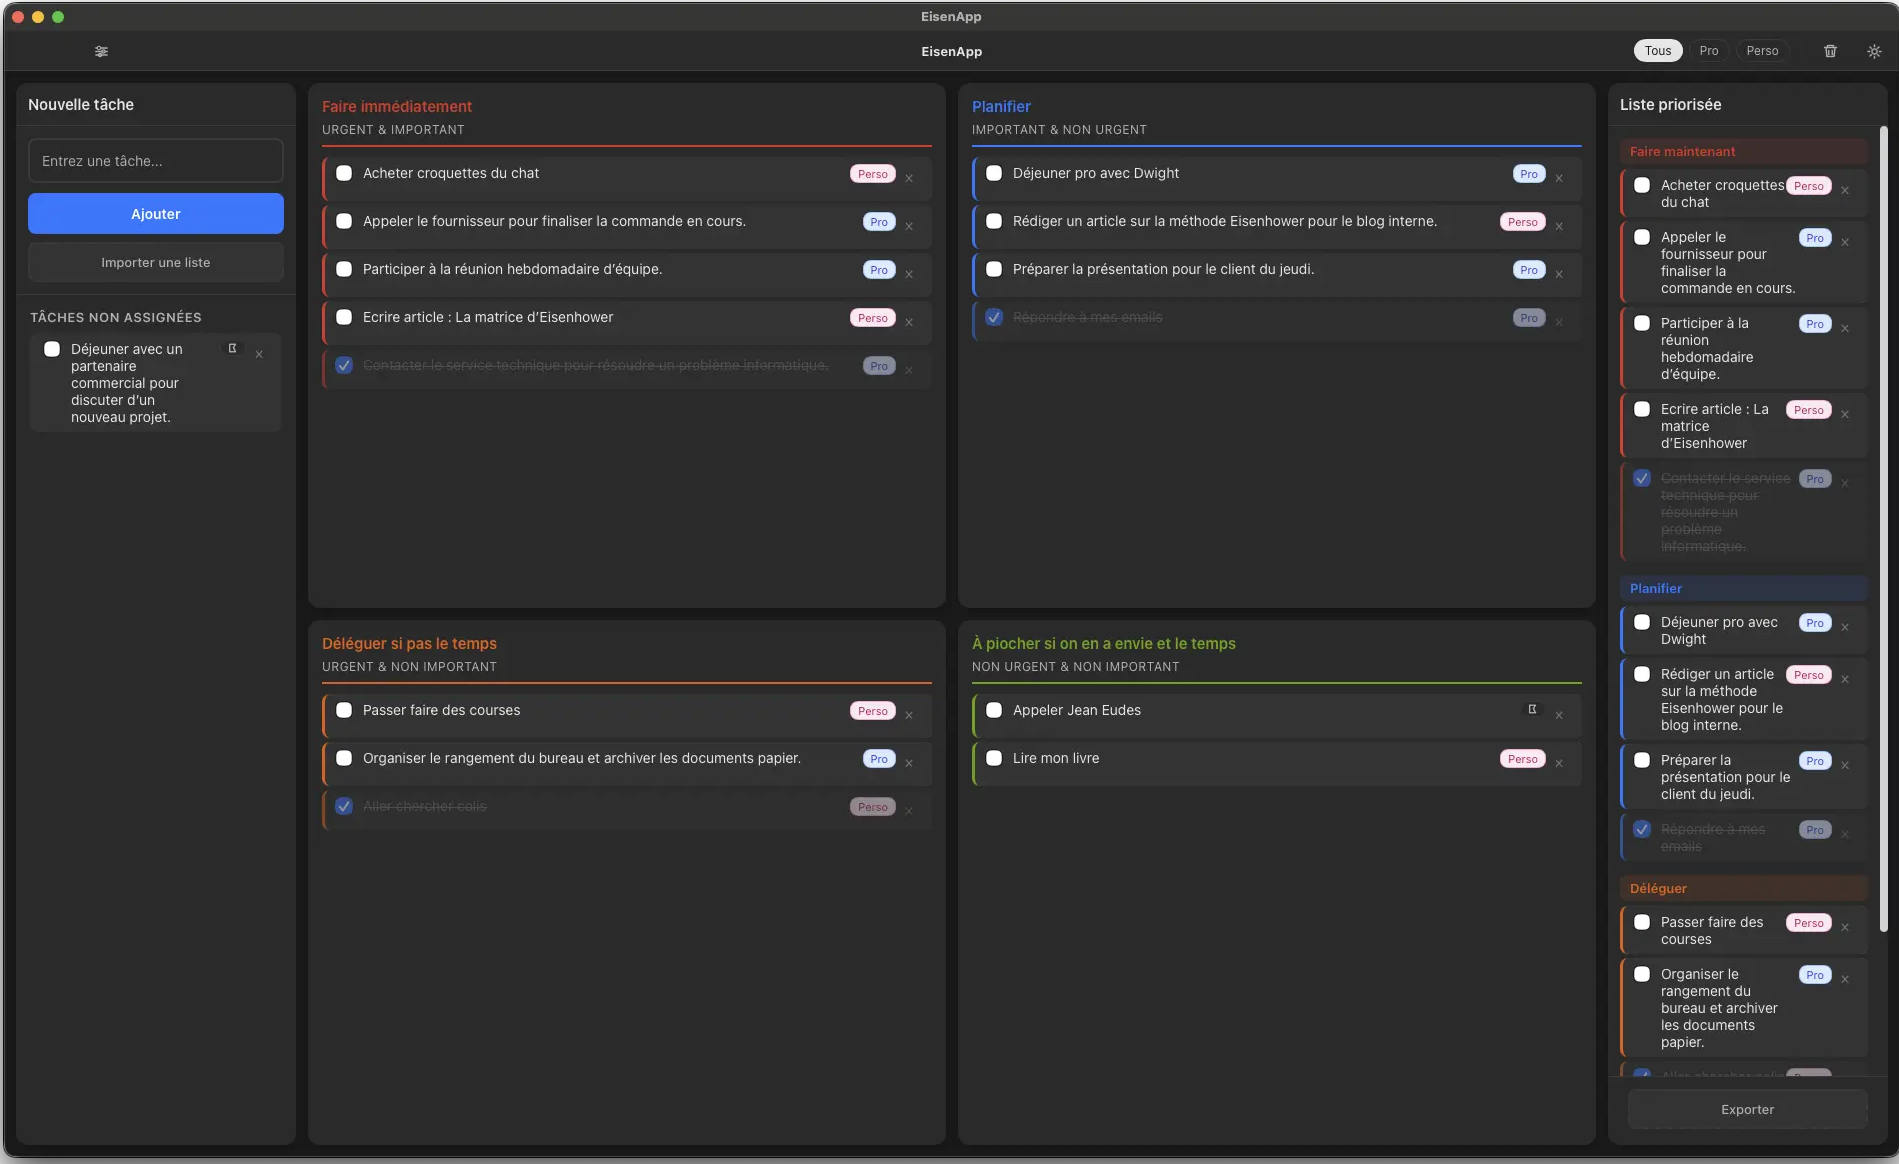
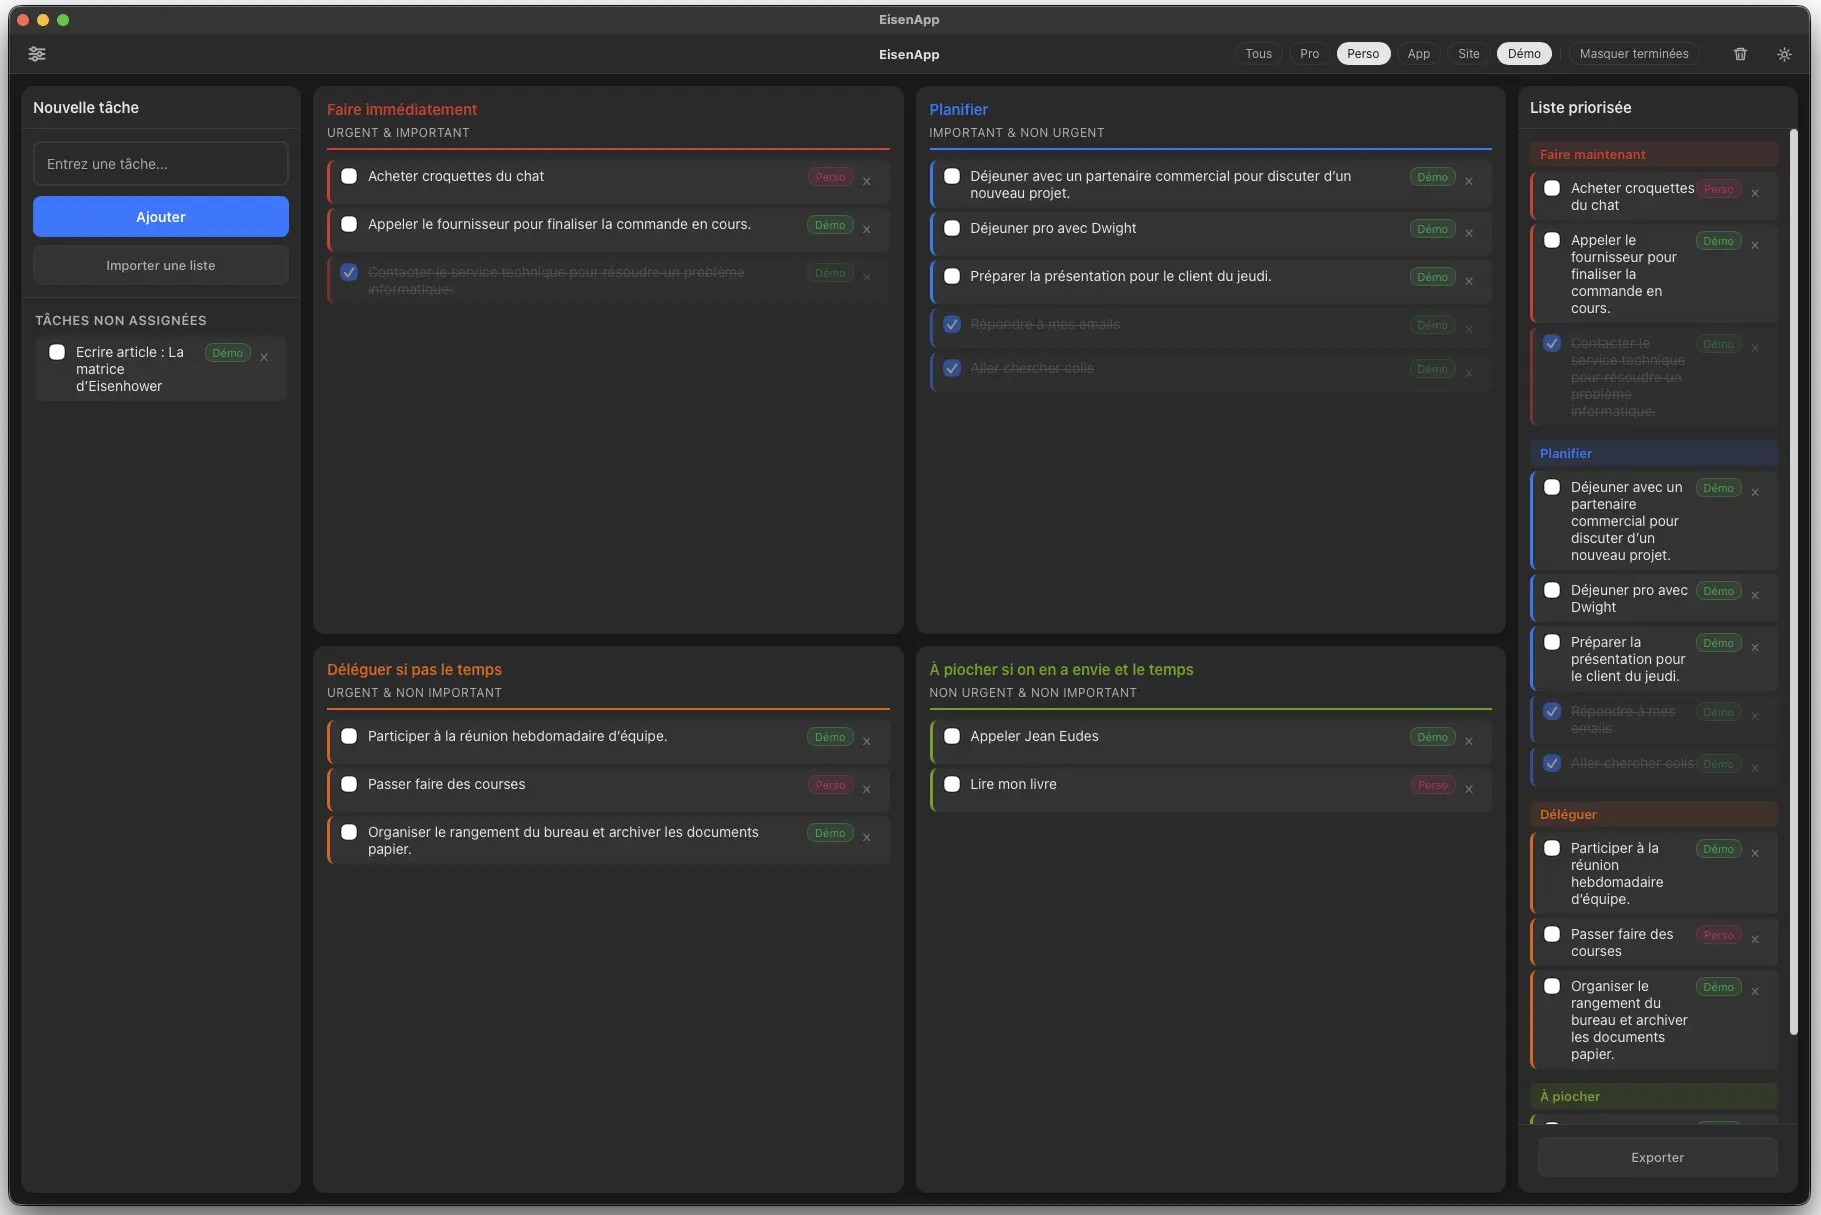
feat: carousel plutôt que gif

Changed region(s): [[0.0, 0.0, 1.0, 1.0], [0.4305, 0.3093, 0.492, 0.3402], [0.8918, 0.9278, 0.9226, 0.9588]]

diff --git a/src/index.html b/src/index.html
@@ -95,10 +95,33 @@
     </div>
   </section>
   
-  <!-- Demo GIF -->
+  <!-- Demo Carousel -->
   <section class="demo">
     <div class="container">
-      <img src="presentation.gif" alt="EisenApp demo" class="demo-gif" />
+      <div class="carousel">
+        <div class="carousel-track">
+          <div class="carousel-slide active">
+            <img src="illustration_light.webp" alt="EisenApp demo" />
+          </div>
+          <div class="carousel-slide">
+            <img src="illustration_light_2.webp" alt="EisenApp demo" />
+          </div>
+          <div class="carousel-slide">
+            <img src="illustration_light_3.webp" alt="EisenApp demo" />
+          </div>
+          <div class="carousel-slide">
+            <img src="illustration_light_4.webp" alt="EisenApp demo" />
+          </div>
+        </div>
+        <button class="carousel-btn carousel-prev" aria-label="Previous">&#8249;</button>
+        <button class="carousel-btn carousel-next" aria-label="Next">&#8250;</button>
+        <div class="carousel-dots">
+          <button class="carousel-dot active" aria-label="Slide 1"></button>
+          <button class="carousel-dot" aria-label="Slide 2"></button>
+          <button class="carousel-dot" aria-label="Slide 3"></button>
+          <button class="carousel-dot" aria-label="Slide 4"></button>
+        </div>
+      </div>
     </div>
   </section>
   
@@ -188,5 +211,38 @@
   </div>
 
   <script src="i18n.js"></script>
+  <script>
+    (function () {
+      const slides = document.querySelectorAll('.carousel-slide');
+      const dots = document.querySelectorAll('.carousel-dot');
+      let current = 0;
+      let timer;
+
+      function goTo(n) {
+        slides[current].classList.remove('active');
+        dots[current].classList.remove('active');
+        current = (n + slides.length) % slides.length;
+        slides[current].classList.add('active');
+        dots[current].classList.add('active');
+      }
+
+      function startAuto() {
+        timer = setInterval(function () { goTo(current + 1); }, 4000);
+      }
+
+      function resetAuto() {
+        clearInterval(timer);
+        startAuto();
+      }
+
+      document.querySelector('.carousel-next').addEventListener('click', function () { goTo(current + 1); resetAuto(); });
+      document.querySelector('.carousel-prev').addEventListener('click', function () { goTo(current - 1); resetAuto(); });
+      dots.forEach(function (dot, i) {
+        dot.addEventListener('click', function () { goTo(i); resetAuto(); });
+      });
+
+      startAuto();
+    })();
+  </script>
 </body>
 </html>

diff --git a/src/styles.css b/src/styles.css
@@ -180,17 +180,92 @@ nav {
   box-shadow: 0 4px 6px rgba(0,0,0,0.05), 0 12px 40px rgba(0,0,0,0.12), 0 0 0 1px rgba(0,0,0,0.06);
 }
 
-/* ── Demo GIF ── */
+/* ── Demo Carousel ── */
 .demo {
   padding: 64px 0;
-  text-align: center;
 }
 
-.demo-gif {
-  width: 100%;
-  max-width: 860px;
+.carousel {
+  position: relative;
+  max-width: 1200px;
+  margin: 0 auto;
+}
+
+.carousel-track {
   border-radius: 14px;
   box-shadow: 0 4px 6px rgba(0,0,0,0.05), 0 12px 40px rgba(0,0,0,0.12), 0 0 0 1px rgba(0,0,0,0.06);
+  overflow: hidden;
+}
+
+.carousel-slide {
+  display: none;
+}
+
+.carousel-slide.active {
+  display: block;
+  animation: carousel-fade 0.4s ease;
+}
+
+@keyframes carousel-fade {
+  from { opacity: 0; }
+  to   { opacity: 1; }
+}
+
+.carousel-slide img {
+  width: 100%;
+  display: block;
+}
+
+.carousel-btn {
+  position: absolute;
+  top: 50%;
+  transform: translateY(-50%);
+  background: rgba(255,255,255,0.92);
+  border: 1px solid var(--border);
+  border-radius: 50%;
+  width: 44px;
+  height: 44px;
+  font-size: 1.6rem;
+  line-height: 1;
+  cursor: pointer;
+  color: var(--text);
+  display: flex;
+  align-items: center;
+  justify-content: center;
+  box-shadow: 0 2px 8px rgba(0,0,0,0.1);
+  transition: background 0.15s, box-shadow 0.15s;
+  z-index: 10;
+}
+
+.carousel-btn:hover {
+  background: #fff;
+  box-shadow: 0 4px 12px rgba(0,0,0,0.15);
+}
+
+.carousel-prev { left: -22px; }
+.carousel-next { right: -22px; }
+
+.carousel-dots {
+  display: flex;
+  justify-content: center;
+  gap: 8px;
+  margin-top: 20px;
+}
+
+.carousel-dot {
+  width: 8px;
+  height: 8px;
+  border-radius: 50%;
+  border: none;
+  background: var(--border);
+  cursor: pointer;
+  padding: 0;
+  transition: background 0.2s, transform 0.2s;
+}
+
+.carousel-dot.active {
+  background: var(--accent);
+  transform: scale(1.3);
 }
 
 /* ── Features ── */
@@ -471,6 +546,9 @@ footer a:hover { color: var(--accent); }
   .features-grid { grid-template-columns: 1fr 1fr; }
 
   .platform-grid { grid-template-columns: 1fr 1fr; }
+
+  .carousel-prev { left: 8px; }
+  .carousel-next { right: 8px; }
 }
 
 @media (max-width: 480px) {
